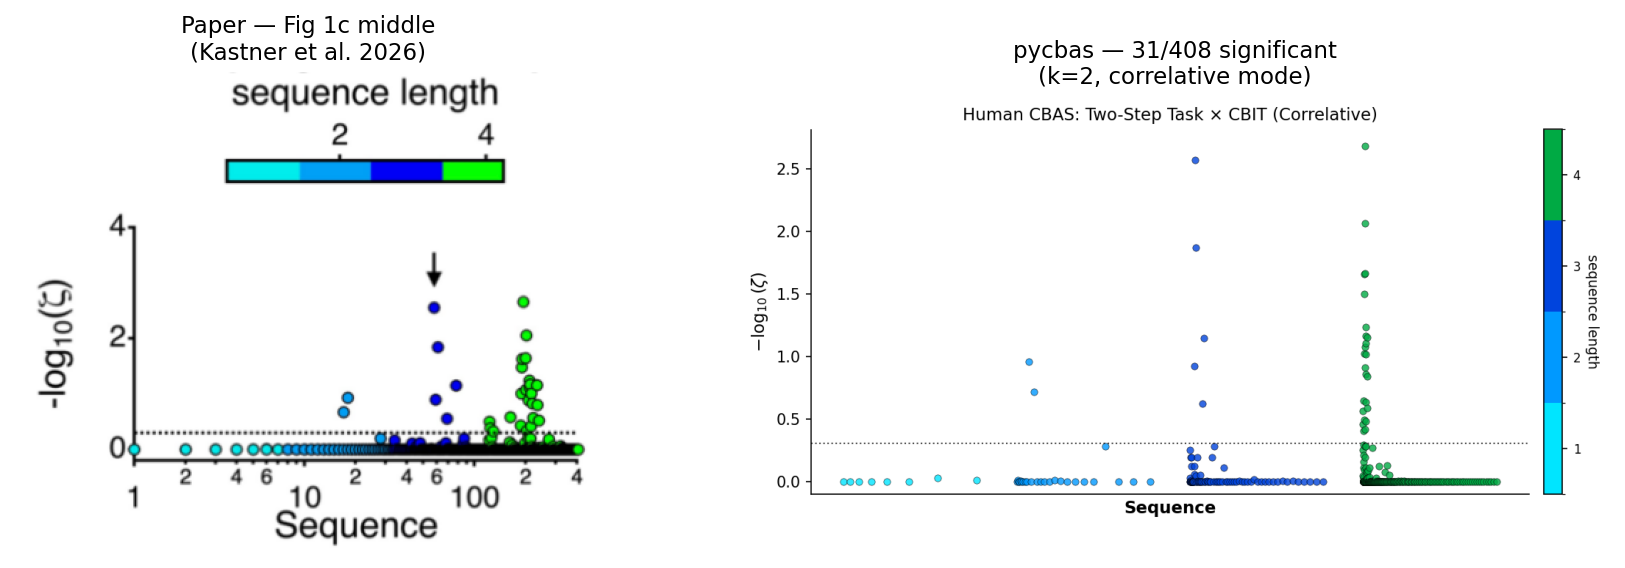
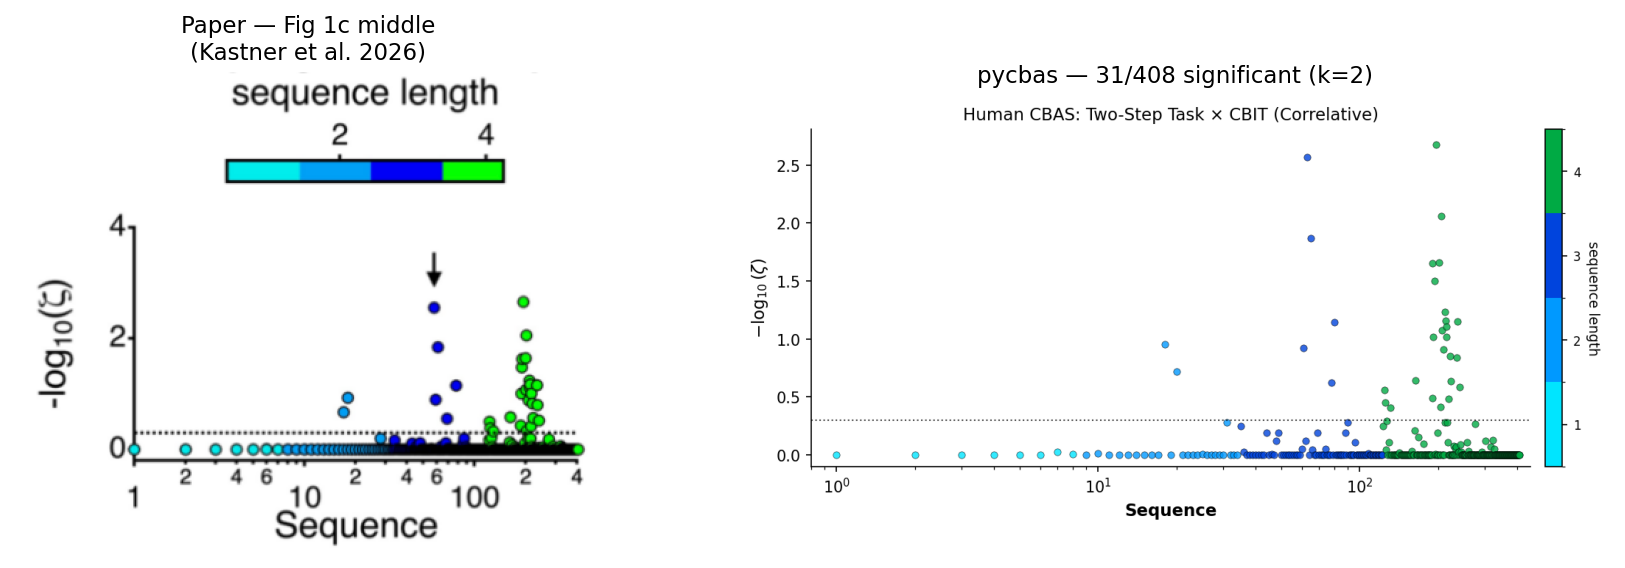
Match paper manhattan layout: log x-axis, paper-style colormap
- Single continuous log x-axis (sequences ranked by length band)
- Cyan→blue→green→yellow→red colormap matching paper gradient
- Vertical colorbar on right
- Simplified comparison figure subtitles

diff --git a/plots/matplotlib/manhattan.py b/plots/matplotlib/manhattan.py
@@ -70,22 +70,16 @@ def manhattan_plot(g_values, seq_lengths, alpha=0.5, colors=None, title=None, ax
     else:
         fig = ax.get_figure()
 
+    # Paper-style: single continuous x-axis, sequences ordered by length then
+    # by index within each length. X position = cumulative rank (1-based).
     x_pos = np.zeros(n_seq)
-    band_width = 1.0
-    gap = 0.3
-
-    for band_idx, slen in enumerate(unique_lens):
+    rank = 1
+    for slen in unique_lens:
         mask = seq_lengths == slen
         indices = np.where(mask)[0]
-        n_in_band = len(indices)
-        if n_in_band > 1:
-            positions = np.logspace(0, np.log10(n_in_band), n_in_band)
-            positions = (positions - positions.min()) / (positions.max() - positions.min())
-        else:
-            positions = np.array([0.5])
-        band_start = band_idx * (band_width + gap)
         for j, idx in enumerate(indices):
-            x_pos[idx] = band_start + positions[j] * band_width
+            x_pos[idx] = rank
+            rank += 1
 
     valid = ~np.isnan(neg_log_g)
     for slen in unique_lens:
@@ -99,13 +93,13 @@ def manhattan_plot(g_values, seq_lengths, alpha=0.5, colors=None, title=None, ax
     ax.set_ylabel(r"$-\log_{10}(\zeta)$", fontsize=11)
     ax.set_xlabel("Sequence", fontsize=11, fontweight="bold")
     ax.set_ylim(-0.1, None)
+    ax.set_xscale("log")
+    ax.set_xlim(0.8, n_seq * 1.1)
     ax.spines["top"].set_visible(False)
     ax.spines["right"].set_visible(False)
 
     if title is not None:
         ax.set_title(title, fontsize=11)
-
-    ax.set_xticks([])
 
     # Vertical colorbar on the right
     color_list = [colors[slen] for slen in unique_lens]

diff --git a/scripts/make_comparison_figures.py b/scripts/make_comparison_figures.py
@@ -22,7 +22,7 @@ SPECIES = [
         "paper_img": PAPER_DIR / "ppr_fig5cL-flies.png",
         "our_img": ROOT / "results" / "flies" / "figures" / "manhattan.png",
         "paper_title": "Paper — Fig 1c left\n(Kastner et al. 2026)",
-        "our_title": "pycbas — 1,243/2,046 significant\n(k=63, no centering)",
+        "our_title": "pycbas — 1,243/2,046 significant (k=63)",
         "out_name": "comparison_flies.png",
     },
     {
@@ -30,7 +30,7 @@ SPECIES = [
         "paper_img": PAPER_DIR / "ppr_fig5cL-humans.png",
         "our_img": ROOT / "results" / "humans" / "figures" / "manhattan.png",
         "paper_title": "Paper — Fig 1c middle\n(Kastner et al. 2026)",
-        "our_title": "pycbas — 31/408 significant\n(k=2, correlative mode)",
+        "our_title": "pycbas — 31/408 significant (k=2)",
         "out_name": "comparison_humans.png",
     },
     {
@@ -38,7 +38,7 @@ SPECIES = [
         "paper_img": PAPER_DIR / "ppr_fig5cR.png",
         "our_img": ROOT / "results" / "rats" / "figures" / "manhattan.png",
         "paper_title": "Paper — Fig 1c right\n(Kastner et al. 2026)",
-        "our_title": "pycbas — 111/16,483 significant\n(k=6, no centering)",
+        "our_title": "pycbas — 111/16,483 significant (k=6)",
         "out_name": "comparison_rats.png",
     },
 ]
